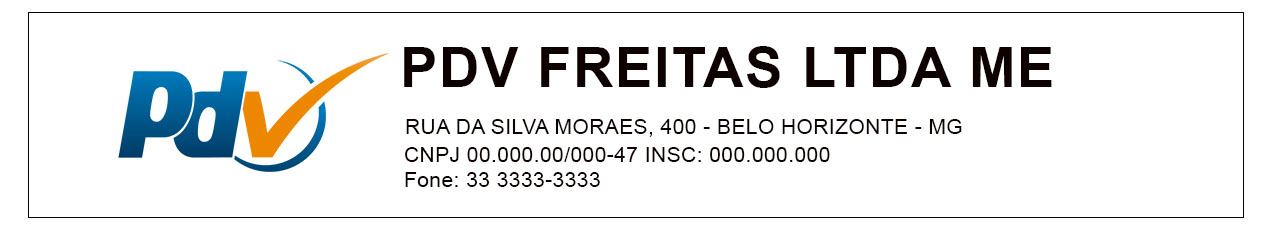
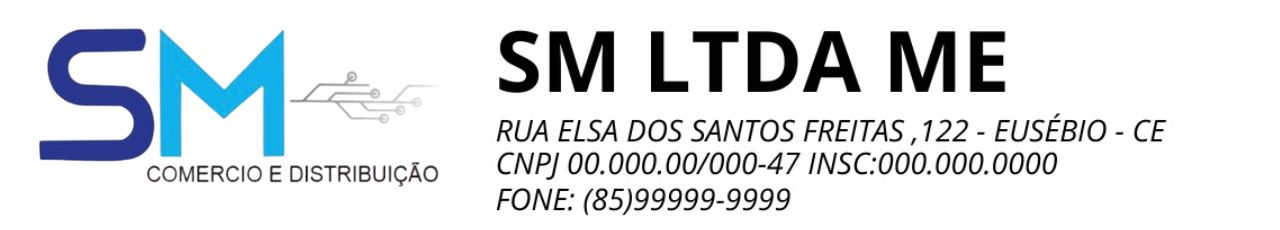
setup do projeto inicial

Changed region(s): [[0.0312, 0.1217, 0.9688, 0.9739], [0.0312, 0.0304, 0.9688, 0.0609]]

diff --git a/vendor/css/relProdutos.css b/vendor/css/relProdutos.css
@@ -1,0 +1,164 @@
+@page {
+    margin: 0px;
+
+}
+
+.footer {
+    margin-top: 20px;
+    width: 100%;
+    background-color: #ebebeb;
+    padding: 10px;
+    position: absolute;
+    bottom: 0;
+}
+
+.cabecalho-topo {
+    background-color: #ebebeb;
+    padding: 10px;
+    margin-bottom: 30px;
+    width: 100%;
+    height: 100px;
+}
+
+.cabecalho {
+    padding: 10px;
+    margin-bottom: 30px;
+    width: 100%;
+    font-family: Times, "Times New Roman", Georgia, serif;
+}
+
+.titulo {
+    margin: 0;
+    font-size: 28px;
+    font-family: Arial, Helvetica, sans-serif;
+    color: #6e6d6d;
+
+}
+
+.subtitulo {
+    margin: 0;
+    font-size: 12px;
+    font-family: Arial, Helvetica, sans-serif;
+    color: #6e6d6d;
+}
+
+.areaTotais {
+    border: 0.5px solid #bcbcbc;
+    padding: 15px;
+    border-radius: 5px;
+    margin-right: 25px;
+    margin-left: 25px;
+    position: absolute;
+    right: 20;
+}
+
+.areaTotal {
+    border: 0.5px solid #bcbcbc;
+    padding: 15px;
+    border-radius: 5px;
+    margin-right: 25px;
+    margin-left: 25px;
+    background-color: #f9f9f9;
+    margin-top: 2px;
+}
+
+.pgto {
+    margin: 1px;
+}
+
+.fonte13 {
+    font-size: 13px;
+}
+
+.esquerda {
+    display: inline;
+    width: 50%;
+    float: left;
+}
+
+.direita {
+    display: inline;
+    width: 50%;
+    float: right;
+}
+
+.table {
+    padding: 15px;
+    font-family: Verdana, sans-serif;
+    margin-top: 20px;
+}
+
+.texto-tabela {
+    font-size: 12px;
+}
+
+
+.esquerda_float {
+
+    margin-bottom: 10px;
+    float: left;
+    display: inline;
+}
+
+
+.titulos {
+    margin-top: 10px;
+}
+
+.image {
+    margin-top: -10px;
+}
+
+.margem-direita {
+    margin-right: 80px;
+}
+
+.margem-direita50 {
+    margin-right: 50px;
+}
+
+hr {
+    margin: 8px;
+    padding: 1px;
+}
+
+
+.titulorel {
+    margin: 0;
+    font-size: 25px;
+    font-family: Arial, Helvetica, sans-serif;
+    color: #6e6d6d;
+
+}
+
+.margem-superior {
+    margin-top: 30px;
+}
+
+.areaSubtituloCab {
+    margin-top: 15px;
+    margin-bottom: 15px;
+}
+
+.area-cab {
+
+    display: block;
+    width: 100%;
+    height: 10px;
+
+}
+
+
+.coluna {
+    margin: 0px;
+    float: left;
+    height: 30px;
+}
+
+.area-tab {
+
+    display: block;
+    width: 100%;
+    height: 30px;
+
+}

diff --git a/painel-adm/index.php b/painel-adm/index.php
@@ -98,10 +98,8 @@ $id_usu = $res[0]['id'];
           <ul class="dropdown-menu" aria-labelledby="navbarDropdown">
             <li><a class="dropdown-item" href="index.php?pagina=<?php echo $menu5 ?>">Cadastro de Produtos</a></li>
             <li><a class="dropdown-item" href="index.php?pagina=<?php echo $menu4 ?>">Cadastro de Categorias</a></li>
-            <li><hr class="dropdown-divider"></li>
-            <li><a class="dropdown-item" href="index.php?pagina=<?php echo $menu6 ?>">Lista de Compras</a></li>
-            <li><a class="dropdown-item" href="index.php?pagina=<?php echo $menu11 ?>">Estoque Baixo</a></li>
-            <li><a class="dropdown-item" href="index.php?pagina=<?php echo $menu13 ?>">Alertas Vencimento</a></li>
+            <li><hr class="dropdown-divider"></li>           
+            <li><a class="dropdown-item disabled" href="index.php?pagina=<?php echo $menu11 ?>">Estoque Baixo</a></li>            
           </ul>
         </li>
 
@@ -113,7 +111,7 @@ $id_usu = $res[0]['id'];
           <ul class="dropdown-menu" aria-labelledby="navbarDropdown">
            <li><a class="dropdown-item" href="index.php?pagina=<?php echo $menu9 ?>">Vendas</a></li>
 
-             <li><a class="dropdown-item" href="index.php?pagina=<?php echo $menu10 ?>">Ponto de Venda</a></li>
+             <li><a class="dropdown-item disabled" href="index.php?pagina=<?php echo $menu10 ?>">Ponto de Venda</a></li>
            
            
           </ul>
@@ -127,22 +125,22 @@ $id_usu = $res[0]['id'];
           <ul class="dropdown-menu" aria-labelledby="navbarDropdown">
             <li><a class="dropdown-item" href="../rel/relProdutos_class.php" target="_blank">Relatório de Produtos</a></li>
 
-             <li><a class="dropdown-item" href="" data-bs-toggle="modal" data-bs-target="#ModalRelCompras">Relatório de Compras</a></li>
+             <li><a class="dropdown-item disabled" href="" data-bs-toggle="modal" data-bs-target="#ModalRelCompras">Relatório de Compras</a></li>
 
-             <li><a class="dropdown-item" href="" data-bs-toggle="modal" data-bs-target="#ModalRelVendas">Relatório de Vendas</a></li>
+             <li><a class="dropdown-item disabled" href="" data-bs-toggle="modal" data-bs-target="#ModalRelVendas">Relatório de Vendas</a></li>
 
-             <li><a class="dropdown-item" href="" data-bs-toggle="modal" data-bs-target="#ModalRelProdVendidos">Relatório de Produtos Vendidos</a></li>
+             <li><a class="dropdown-item disabled" href="" data-bs-toggle="modal" data-bs-target="#ModalRelProdVendidos">Relatório de Produtos Vendidos</a></li>
 
-             <li><a class="dropdown-item" href="" data-bs-toggle="modal" data-bs-target="#ModalRelQuebras">Relatório de Quebras</a></li>
+             <li><a class="dropdown-item disabled" href="" data-bs-toggle="modal" data-bs-target="#ModalRelQuebras">Relatório de Quebras</a></li>
 
-              <li><a class="dropdown-item" href="" data-bs-toggle="modal" data-bs-target="#ModalRelLucro">Relatório de Lucro</a></li>
+              <li><a class="dropdown-item disabled" href="" data-bs-toggle="modal" data-bs-target="#ModalRelLucro">Relatório de Lucro</a></li>
 
-                 <li><a class="dropdown-item" href="" data-bs-toggle="modal" data-bs-target="#ModalRelContasReceber">Relatório Contas Receber</a></li>
+                 <li><a class="dropdown-item disabled" href="" data-bs-toggle="modal" data-bs-target="#ModalRelContasReceber">Relatório Contas Receber</a></li>
 
-                  <li><a class="dropdown-item" href="../rel/relContasReceberVencidas_class.php" target="_blank">Relatório Contas Receber Vencidas</a></li>
+                  <li><a class="dropdown-item disabled" href="../rel/relContasReceberVencidas_class.php" target="_blank">Relatório Contas Receber Vencidas</a></li>
 
 
-                    <li><a class="dropdown-item" href="../rel/alertas_class.php" target="_blank">Relatório Produtos Vencendo</a></li>
+                    <li><a class="dropdown-item disabled" href="../rel/alertas_class.php" target="_blank">Relatório Produtos Vencendo</a></li>
            
            
           </ul>
@@ -150,7 +148,7 @@ $id_usu = $res[0]['id'];
 
 
         <li class="nav-item">
-          <a class="nav-link" href="../painel-financeiro" target="_blank">Painel Financeiro</a>
+          <a class="nav-link disabled" href="../painel-financeiro" target="_blank">Painel Financeiro</a>
         </li>
 
         <li class="nav-item">

diff --git a/painel-adm/produtos.php b/painel-adm/produtos.php
@@ -79,16 +79,13 @@ require_once('verificar-permissao.php');
                     <a href="index.php?pagina=<?php echo $pag ?>&funcao=deletar&id=<?php echo $res[$i]['id'] ?>" title="Excluir Registro" style="text-decoration: none">
                         <i class="bi bi-archive text-danger mx-1"></i>
                     </a>
-                    <a href="#" onclick="mostrarDados('<?php echo $res[$i]['item'] ?>', '<?php echo $res[$i]['descricao'] ?>', '<?php echo $res[$i]['foto'] ?>', '<?php echo $nome_cat ?>', '<?php echo $nome_forn ?>', '<?php echo $tel_forn ?>')" title="Ver Descrição" style="text-decoration: none">
+                    <a href="#" onclick="mostrarDados('<?php echo $res[$i]['item'] ?>', '<?php echo $res[$i]['item'] ?>', '<?php echo $res[$i]['foto'] ?>', '<?php echo $nome_cat ?>', '<?php echo $nome_forn ?>', '<?php echo $tel_forn ?>')" title="Ver Descrição" style="text-decoration: none">
                         <i class="bi bi-card-text text-dark mx-1"></i>
-                    </a>
-                    <a href="#" onclick="comprarProdutos('<?php echo $res[$i]['id'] ?>', '<?php echo $res[$i]['valor_venda'] ?>', '<?php echo $res[$i]['lucro'] ?>', '<?php echo $res[$i]['valor_compra'] ?>')" title="Comprar Produtos" style="text-decoration: none">
-                        <i class="bi bi-bag text-success mx-1"></i>
                     </a>
                     <a target="_blank" title="Gerar Etiquetas" href="../rel/barras_class.php?codigo=<?php echo $res[$i]['codigo'] ?>" style="text-decoration: none">
                         <i class="bi bi-clipboard-check text-dark mx-1"></i>
                     </a>
-                    <a target="_blank" title="Gerar Etiquetas com Valor" href="../rel/barras_valor_class.php?codigo=<?php echo $res[$i]['codigo'] ?>&valor=<?php echo $res[$i]['valor_venda'] ?>&nome=<?php echo $res[$i]['nome'] ?>" style="text-decoration: none">
+                    <a target="_blank" title="Gerar Etiquetas com Valor" href="../rel/barras_valor_class.php?codigo=<?php echo $res[$i]['codigo'] ?>&valor=<?php echo $res[$i]['preco_unitario'] ?>&item=<?php echo $res[$i]['item'] ?>" style="text-decoration: none">
                         <i class="bi bi-clipboard-check text-danger mx-1"></i>
                     </a>
                 </td>

diff --git a/rel/relProdutos.php b/rel/relProdutos.php
@@ -237,11 +237,9 @@ require_once("data_formatada.php");
 				<section class="area-tab" style="background-color: #f5f5f5;">
 					
 					<div class="linha-cab" style="padding-top: 5px;">
-						<div class="coluna" style="width:30%">NOME</div>
-						<div class="coluna" style="width:15%">ESTOQUE</div>
-						<div class="coluna" style="width:15%">ESTOQUE MÍNIMO</div>
-						<div class="coluna" style="width:15%">VALOR VENDA</div>
-						<div class="coluna" style="width:15%">VALOR COMPRA</div>
+						<div class="coluna" style="width:30%">REFERÊNCIA</div>
+						<div class="coluna" style="width:15%">DESCRIÇÃO DO ITEM</div>
+						<div class="coluna" style="width:15%">PREÇO</div>
 						<div class="coluna" style="width:10%">FOTO</div>
 
 					</div>
@@ -262,28 +260,21 @@ require_once("data_formatada.php");
 		for ($i=0; $i < @count($res); $i++) { 
 			foreach ($res[$i] as $key => $value) {
 			}
-			$nome = $res[$i]['nome'];
-			$valor_compra = $res[$i]['valor_compra'];
-			$valor_venda = $res[$i]['valor_venda'];
-			$estoque = $res[$i]['estoque'];
-			$estoque_min = $res[$i]['estoque_min'];
-			
-			$foto = $res[$i]['foto'];
-			
+			$nome = $res[$i]['codigo'];
+            $valor_venda = $res[$i]['item'];
+			$valor_compra = $res[$i]['preco_unitario'];				
+			$foto = $res[$i]['foto'];	
 			
 			$id = $res[$i]['id'];
-
 			
 			$valor_compra = number_format($valor_compra, 2, ',', '.');
-			$valor_venda = number_format($valor_venda, 2, ',', '.');
+			
 			?>
 
 
 				<section class="area-tab" style="padding-top:5px">					
 					<div class="linha-cab">				
-						<div class="coluna" style="width:30%"><?php echo $nome ?> </div>
-						<div class="coluna" style="width:15%"><?php echo $estoque ?></div>
-						<div class="coluna" style="width:15%"><?php echo $estoque_min ?></div>				
+						<div class="coluna" style="width:30%"><?php echo $nome ?> </div>			
 						<div class="coluna" style="width:15%">R$ <?php echo $valor_venda ?></div>
 						<div class="coluna" style="width:15%">R$ <?php echo $valor_compra ?></div>				
 						<div class="coluna" style="width:10%"><img src="<?php echo $url_sistema ?>img/produtos/<?php echo $foto ?>" width="28px"> </div>				
@@ -336,3 +327,4 @@ require_once("data_formatada.php");
 
 </body>
 </html>
+

diff --git a/rel/barras_valor.php b/rel/barras_valor.php
@@ -2,7 +2,7 @@
 require_once("../conexao.php"); 
 
 $codigo = $_GET['codigo'];
-$nome = $_GET['nome'];
+$item = $_GET['item'];
 $valor = $_GET['valor'];
 $valor = number_format($valor, 2, ',', '.');
 require_once('classe_barras.php');
@@ -37,7 +37,7 @@ require_once('classe_barras.php');
 <?php for($i=0; $i<$etiquetas_por_linha; $i++){ ?>
 
 <span class="margem">
-<small><small><?php echo $nome ?> <br>R$ <?php echo $valor ?></small></small>
+<small><small><?php echo $item ?> <br>R$ <?php echo $valor ?></small></small>
 <br>
 <?php 
 echo geraCodigoBarra($codigo, $largura_cod_barras, $altura_cod_barras); 
@@ -54,5 +54,16 @@ echo geraCodigoBarra($codigo, $largura_cod_barras, $altura_cod_barras);
 <?php } ?>
 
 
-
+<!DOCTYPE html>
+<html lang="en">
+<head>
+	<meta charset="UTF-8">
+	<meta name="viewport" content="width=device-width, initial-scale=1.0">
+	<title>Document</title>
+	<link rel="icon" type="image/png" href="vendor/login/images/icons/favicon.ico" />
+</head>
+<body>
+	
+</body>
+</html>
 

diff --git a/config.php b/config.php
@@ -14,23 +14,23 @@ if($url[1] == 'codigoquatro.com.br/'){
 
 
 $telefone_sistema = "(99) 99999-9999";
-$endereco_sistema = "Rua X Nº 200 Centro - MARANGUAPE - CE";
+$endereco_sistema = "RUA ELSA DOS SANTOS FEITAS,122 - EUSÉBIO - CE";
 $rodape_relatorios = "Sistema Desenvolvido por CÓDIGOQUATRO-SOLUÇÕES!";
 $cnpj_sistema = '00.000.000/0001-00';
 $fonte_comprovante = '11';
 
 
 //VARIAVEIS PARA O BANCO DE DADOS LOCAL
-$servidor = 'localhost';
-$usuario = 'root';
-$senha_bd = '';
-$banco = 'pdv';
+//$servidor = 'localhost';
+//$usuario = 'root';
+//$senha_bd = '';
+//$banco = 'pdv';
 
 //VARIAVEIS PARA O BANCO DE DADOS LOCAL
-//$servidor = '108.167.151.55';
-//$usuario = 'codig267_ger_vendas';
-//$senha_bd = 'Alves1974#';
-//$banco = 'codig267_ger_vendas';
+$servidor = '108.167.151.55';
+$usuario = 'codig267_ger_vendas';
+$senha_bd = 'Alves1974#';
+$banco = 'codig267_ger_vendas';
 
 
 //VARIAVEIS DE CONFIGURAÇÕES DO SISTEMA
